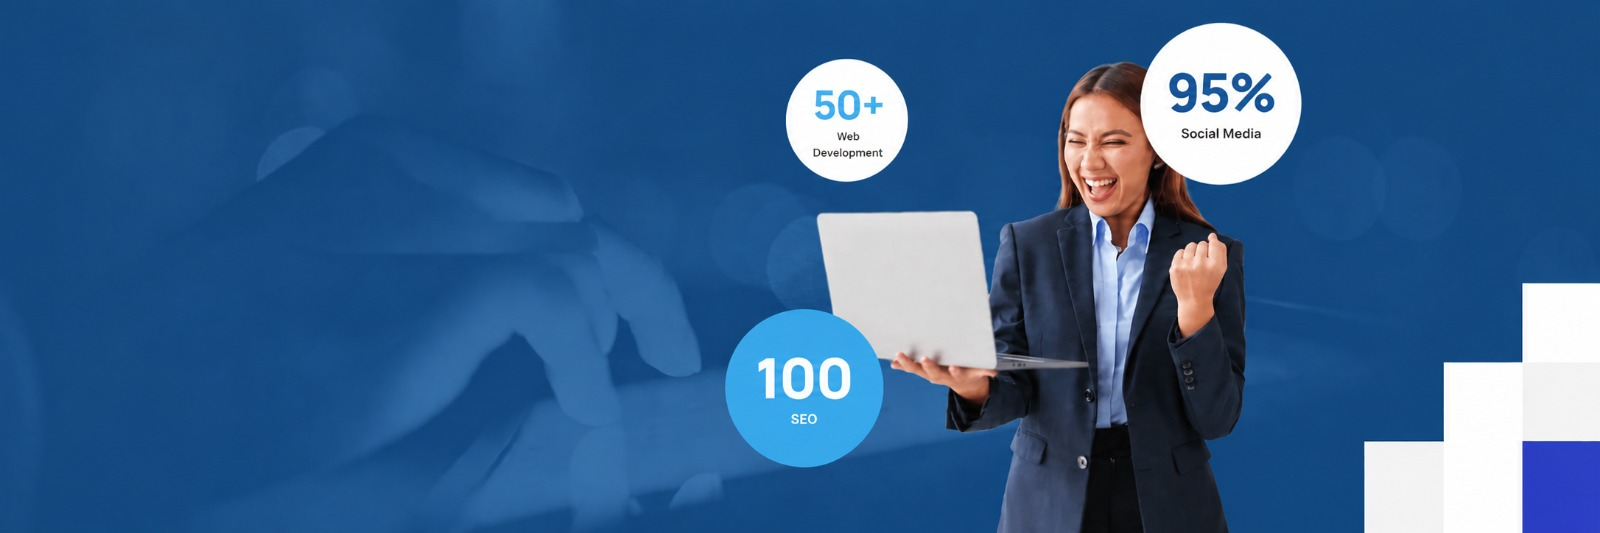
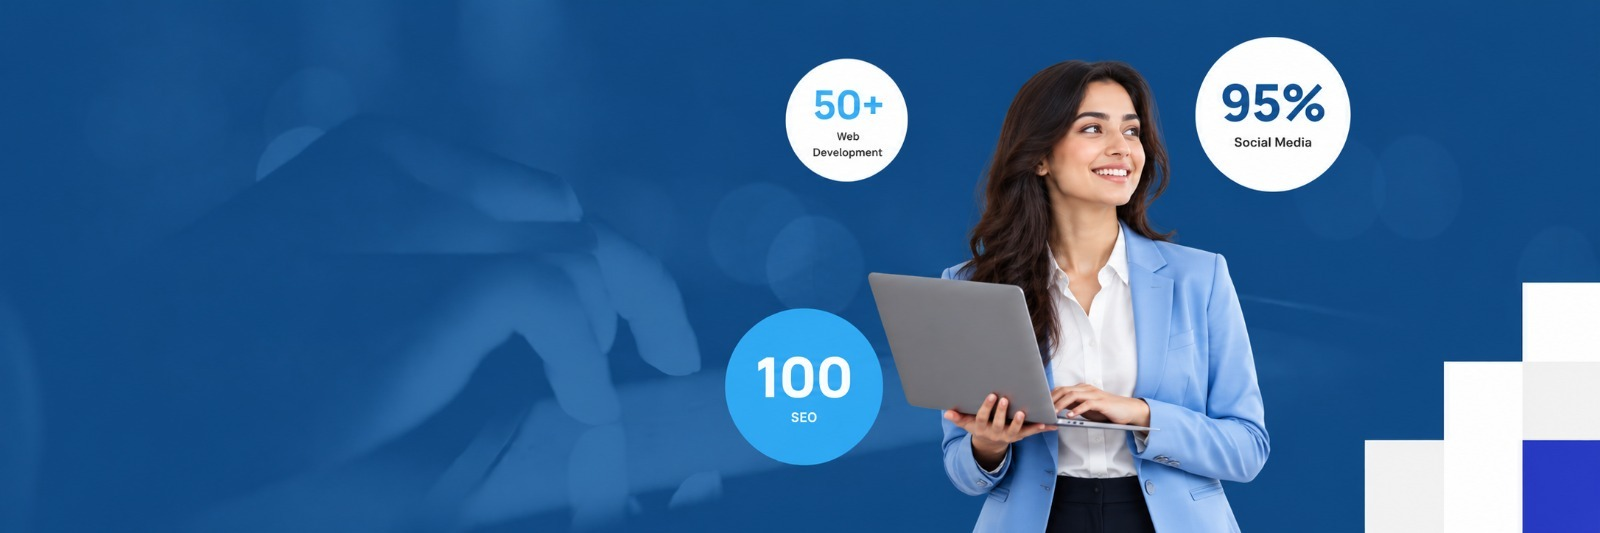
Created image carousel

diff --git a/src/components/HomeCarousel.jsx b/src/components/HomeCarousel.jsx
@@ -1,0 +1,275 @@
+import React, { useState, useEffect, useRef, useCallback } from "react";
+import { Link } from "react-router-dom";
+import { ChevronLeft, ChevronRight, ArrowUpRight } from "lucide-react";
+
+// Carousel Slides
+import carousel1 from "../assets/images/carousel-1.jpeg";
+import carousel2 from "../assets/images/carousel-2.jpeg";
+import carousel3 from "../assets/images/carousel-3.jpeg";
+import carousel4 from "../assets/images/carousel-4.jpeg";
+
+/**
+ * Default configurable overlay content for Carousel 4 ONLY.
+ * Reuses existing brand copy from Silgate Solutions.
+ * Update these fields when custom text is provided.
+ */
+const DEFAULT_CAROUSEL_4_CONTENT = {
+  eyebrow: "Enterprise Digital & Technology Solutions",
+  title: "Transforming Global Brands with Strategic Innovation",
+  description:
+    "Scalable digital architectures, strategic brand marketing, and high-recall communication designed to accelerate compounding enterprise growth.",
+  buttonText: "Discuss Your Project",
+  buttonLink: "/contact",
+};
+
+/**
+ * HomeCarousel Component
+ * Full-screen responsive hero image carousel for the Home page.
+ * Rotates through 4 slides every 5 seconds (5000ms) with smooth transitions.
+ * Only slide 4 displays the configured text overlay.
+ */
+export default function HomeCarousel({
+  carousel4Content = DEFAULT_CAROUSEL_4_CONTENT,
+}) {
+  const [currentIndex, setCurrentIndex] = useState(0);
+  const [prevIndex, setPrevIndex] = useState(0);
+  const [direction, setDirection] = useState("next"); // "next" | "prev"
+  const timerRef = useRef(null);
+
+  // Touch tracking for mobile swipe support
+  const touchStartX = useRef(0);
+  const touchEndX = useRef(0);
+
+  const slides = [
+    {
+      id: 1,
+      image: carousel1,
+      alt: "Professional SEO Service in Delhi - Silgate Solutions",
+      overlay: false,
+    },
+    {
+      id: 2,
+      image: carousel2,
+      alt: "Web Designing & Development Service - Silgate Solutions",
+      overlay: false,
+    },
+    {
+      id: 3,
+      image: carousel3,
+      alt: "Marketing Solutions for Your Business - Silgate Solutions",
+      overlay: false,
+    },
+    {
+      id: 4,
+      image: carousel4,
+      alt: "Enterprise Digital & Technology Solutions - Silgate Solutions",
+      overlay: true,
+      ...carousel4Content,
+    },
+  ];
+
+  // Reset & start the 5-second autoplay timer
+  const startTimer = useCallback(() => {
+    if (timerRef.current) {
+      clearInterval(timerRef.current);
+    }
+    timerRef.current = setInterval(() => {
+      setDirection("next");
+      setCurrentIndex((curr) => {
+        setPrevIndex(curr);
+        return (curr + 1) % slides.length;
+      });
+    }, 5000);
+  }, [slides.length]);
+
+  // Setup autoplay on mount and cleanup on unmount
+  useEffect(() => {
+    startTimer();
+    return () => {
+      if (timerRef.current) {
+        clearInterval(timerRef.current);
+      }
+    };
+  }, [startTimer]);
+
+  // Navigation handlers that immediately change slide and reset 5s timer
+  const handleNext = () => {
+    setDirection("next");
+    setPrevIndex(currentIndex);
+    setCurrentIndex((prev) => (prev + 1) % slides.length);
+    startTimer();
+  };
+
+  const handlePrev = () => {
+    setDirection("prev");
+    setPrevIndex(currentIndex);
+    setCurrentIndex((prev) => (prev - 1 + slides.length) % slides.length);
+    startTimer();
+  };
+
+  const handleDotClick = (index) => {
+    if (index === currentIndex) return;
+    setDirection(index > currentIndex ? "next" : "prev");
+    setPrevIndex(currentIndex);
+    setCurrentIndex(index);
+    startTimer();
+  };
+
+  // Mobile Touch Swipe Handlers
+  const handleTouchStart = (e) => {
+    touchStartX.current = e.touches[0].clientX;
+  };
+
+  const handleTouchMove = (e) => {
+    touchEndX.current = e.touches[0].clientX;
+  };
+
+  const handleTouchEnd = () => {
+    if (!touchStartX.current || !touchEndX.current) return;
+    const diff = touchStartX.current - touchEndX.current;
+    if (Math.abs(diff) > 40) {
+      if (diff > 0) {
+        handleNext();
+      } else {
+        handlePrev();
+      }
+    }
+    touchStartX.current = 0;
+    touchEndX.current = 0;
+  };
+
+  // Compute CSS classes for horizontal slide transition
+  const getSlidePositionClass = (index) => {
+    if (index === currentIndex) {
+      return "translate-x-0 opacity-100 z-10 pointer-events-auto transition-transform duration-700 ease-in-out";
+    }
+    if (index === prevIndex) {
+      return direction === "next"
+        ? "-translate-x-full opacity-100 z-0 pointer-events-none transition-transform duration-700 ease-in-out"
+        : "translate-x-full opacity-100 z-0 pointer-events-none transition-transform duration-700 ease-in-out";
+    }
+    return direction === "next"
+      ? "translate-x-full opacity-0 z-0 pointer-events-none"
+      : "-translate-x-full opacity-0 z-0 pointer-events-none";
+  };
+
+  return (
+    <section
+      className="relative w-full aspect-[1600/595] max-h-[calc(100vh-5rem)] overflow-hidden bg-slate-950 select-none"
+      style={{ aspectRatio: "1600 / 595" }}
+      aria-roledescription="carousel"
+      aria-label="Silgate Solutions Hero Carousel"
+      onTouchStart={handleTouchStart}
+      onTouchMove={handleTouchMove}
+      onTouchEnd={handleTouchEnd}
+    >
+      {/* Slides Container */}
+      <div className="relative w-full h-full overflow-hidden">
+        {slides.map((slide, index) => (
+          <div
+            key={slide.id}
+            className={`absolute inset-0 w-full h-full will-change-transform ${getSlidePositionClass(
+              index,
+            )}`}
+            aria-hidden={currentIndex !== index}
+            role="group"
+            aria-roledescription="slide"
+            aria-label={`${slide.id} of ${slides.length}`}
+          >
+            {/* Slide Image */}
+            <img
+              src={slide.image}
+              alt={slide.alt}
+              className="w-full h-full object-cover object-center block"
+              loading={index === 0 ? "eager" : "lazy"}
+            />
+
+            {/* Carousel 4 ONLY: Overlay Content */}
+            {slide.overlay && (
+              <div className="absolute inset-0 bg-gradient-to-r from-[#00386c]/90 via-[#00529B]/65 to-transparent flex items-center">
+                <div className="max-w-7xl mx-auto px-6 sm:px-12 lg:px-16 w-full">
+                  <div className="max-w-xl text-white">
+                    {slide.eyebrow && (
+                      <span className="inline-flex items-center gap-2 px-3 py-1 sm:px-3.5 sm:py-1.5 rounded-md bg-[#FFF1EC] text-[#F36C3D] font-bold text-xs sm:text-sm uppercase tracking-wider mb-3 sm:mb-4 shadow-sm border border-[#FED7AA]">
+                        {slide.eyebrow}
+                      </span>
+                    )}
+
+                    {slide.title && (
+                      <h2 className="text-2xl sm:text-4xl lg:text-5xl font-black tracking-tight text-white leading-tight mb-3 sm:mb-4">
+                        {slide.title}
+                      </h2>
+                    )}
+
+                    {slide.description && (
+                      <p className="text-slate-100 text-xs sm:text-sm md:text-base leading-relaxed mb-5 sm:mb-6 max-w-lg">
+                        {slide.description}
+                      </p>
+                    )}
+
+                    {slide.buttonText && (
+                      <div>
+                        <Link
+                          to={slide.buttonLink || "/contact"}
+                          className="inline-flex items-center gap-2 px-5 py-2.5 sm:px-6 sm:py-3.5 rounded-lg bg-[#F36C3D] hover:bg-[#dd582b] text-white font-bold text-xs sm:text-sm md:text-base shadow-xl hover:shadow-2xl transition-all duration-200 hover:scale-105 active:scale-95 group cursor-pointer"
+                        >
+                          <span>{slide.buttonText}</span>
+                          <ArrowUpRight className="w-4 h-4 transition-transform group-hover:translate-x-0.5 group-hover:-translate-y-0.5" />
+                        </Link>
+                      </div>
+                    )}
+                  </div>
+                </div>
+              </div>
+            )}
+          </div>
+        ))}
+      </div>
+
+      {/* Previous Arrow Button */}
+      {/* <button
+        type="button"
+        onClick={handlePrev}
+        className="absolute left-3 sm:left-6 top-1/2 -translate-y-1/2 z-20 flex items-center justify-center w-10 h-10 sm:w-12 sm:h-12 rounded-full bg-black/40 hover:bg-[#00529B] text-white/90 hover:text-white backdrop-blur-md border border-white/20 shadow-xl transition-all duration-200 hover:scale-110 active:scale-95 cursor-pointer focus:outline-none focus-visible:ring-2 focus-visible:ring-white"
+        aria-label="Previous slide"
+        title="Previous slide"
+      >
+        <ChevronLeft className="w-5 h-5 sm:w-6 sm:h-6" />
+      </button> */}
+
+      {/* Next Arrow Button */}
+      {/* <button
+        type="button"
+        onClick={handleNext}
+        className="absolute right-3 sm:right-6 top-1/2 -translate-y-1/2 z-20 flex items-center justify-center w-10 h-10 sm:w-12 sm:h-12 rounded-full bg-black/40 hover:bg-[#00529B] text-white/90 hover:text-white backdrop-blur-md border border-white/20 shadow-xl transition-all duration-200 hover:scale-110 active:scale-95 cursor-pointer focus:outline-none focus-visible:ring-2 focus-visible:ring-white"
+        aria-label="Next slide"
+        title="Next slide"
+      >
+        <ChevronRight className="w-5 h-5 sm:w-6 sm:h-6" />
+      </button> */}
+
+      {/* Slide Indicators / Dots */}
+      {/* <div
+        className="absolute bottom-5 sm:bottom-8 left-1/2 -translate-x-1/2 z-20 flex items-center gap-2.5 sm:gap-3 bg-black/40 backdrop-blur-md px-4 py-2 rounded-full border border-white/15 shadow-xl"
+        role="tablist"
+        aria-label="Slide indicators"
+      >
+        {slides.map((_, index) => (
+          <button
+            key={index}
+            type="button"
+            onClick={() => handleDotClick(index)}
+            className={`transition-all duration-300 rounded-full focus:outline-none focus-visible:ring-2 focus-visible:ring-white cursor-pointer ${
+              currentIndex === index
+                ? "w-8 h-2.5 bg-[#F36C3D] shadow-md shadow-[#F36C3D]/40"
+                : "w-2.5 h-2.5 bg-white/60 hover:bg-white"
+            }`}
+            aria-label={`Go to slide ${index + 1}`}
+            aria-selected={currentIndex === index}
+            role="tab"
+          />
+        ))}
+      </div> */}
+    </section>
+  );
+}

diff --git a/src/pages/Home.jsx b/src/pages/Home.jsx
@@ -9,6 +9,7 @@ import AuditForm from "../components/AuditForm";
 import FAQAccordion from "../components/FAQAccordion";
 import CTA from "../components/CTA";
 import FloatingHomeVideo from "../components/FloatingHomeVideo";
+import HomeCarousel from "../components/HomeCarousel";
 import {
   ArrowUpRight,
   Sparkles,
@@ -49,7 +50,6 @@ import metsoImg from "../assets/images/metso-industrial-b2b-creative-portfolio.w
 import blogPackaging from "../assets/images/brand-packaging-beauty-brands-us-retail-1024x576.webp";
 import blogDubai from "../assets/images/corporate-films-real-estate-developers-dubai-1024x576.webp";
 import blogSearch from "../assets/images/search-advertising-professional-services-new-york-1024x576.webp";
-import homePageVideo from "../assets/videos/home_page_video.mp4";
 
 export default function Home() {
   const [activeWorkFilter, setActiveWorkFilter] = useState("all");
@@ -263,9 +263,9 @@ export default function Home() {
       <Navbar />
 
       <main className="flex-1">
-        <section>
-          <video src={homePageVideo} autoPlay muted loop></video>
-        </section>
+        {/* ================= 1. FULL-SCREEN HOME HERO CAROUSEL ================= */}
+        <HomeCarousel />
+
         {/* ================= 1. HERO SECTION (Matches Live DigiStreet) ================= */}
         <section className="relative pt-10 pb-16 sm:pt-16 sm:pb-24 overflow-hidden bg-gradient-to-b from-[#F8FAFC] via-white to-white border-b border-slate-200/80">
           {/* Subtle brand swoosh glow */}

diff --git a/src/components/FloatingHomeVideo.jsx b/src/components/FloatingHomeVideo.jsx
@@ -112,7 +112,7 @@ export default function FloatingHomeVideo({ src = videoHome }) {
       <div className="absolute bottom-0 inset-x-0 h-12 bg-gradient-to-t from-black/60 to-transparent pointer-events-none z-10" />
 
       {/* Close (X) Button in top-right */}
-      {/* <button
+      <button
         type="button"
         onClick={handleClose}
         className="absolute top-2 right-2 z-20 flex items-center justify-center w-7 h-7 rounded-full bg-black/55 hover:bg-black/85 text-white/90 hover:text-white transition-all duration-200 backdrop-blur-md border border-white/20 hover:scale-105 active:scale-95 cursor-pointer shadow-sm"
@@ -120,7 +120,7 @@ export default function FloatingHomeVideo({ src = videoHome }) {
         title="Close"
       >
         <X className="w-3.5 h-3.5" />
-      </button> */}
+      </button>
 
       {/* Media Controls Bar near bottom-left */}
       <div className="absolute bottom-2 left-2 z-20 flex items-center gap-1.5">
